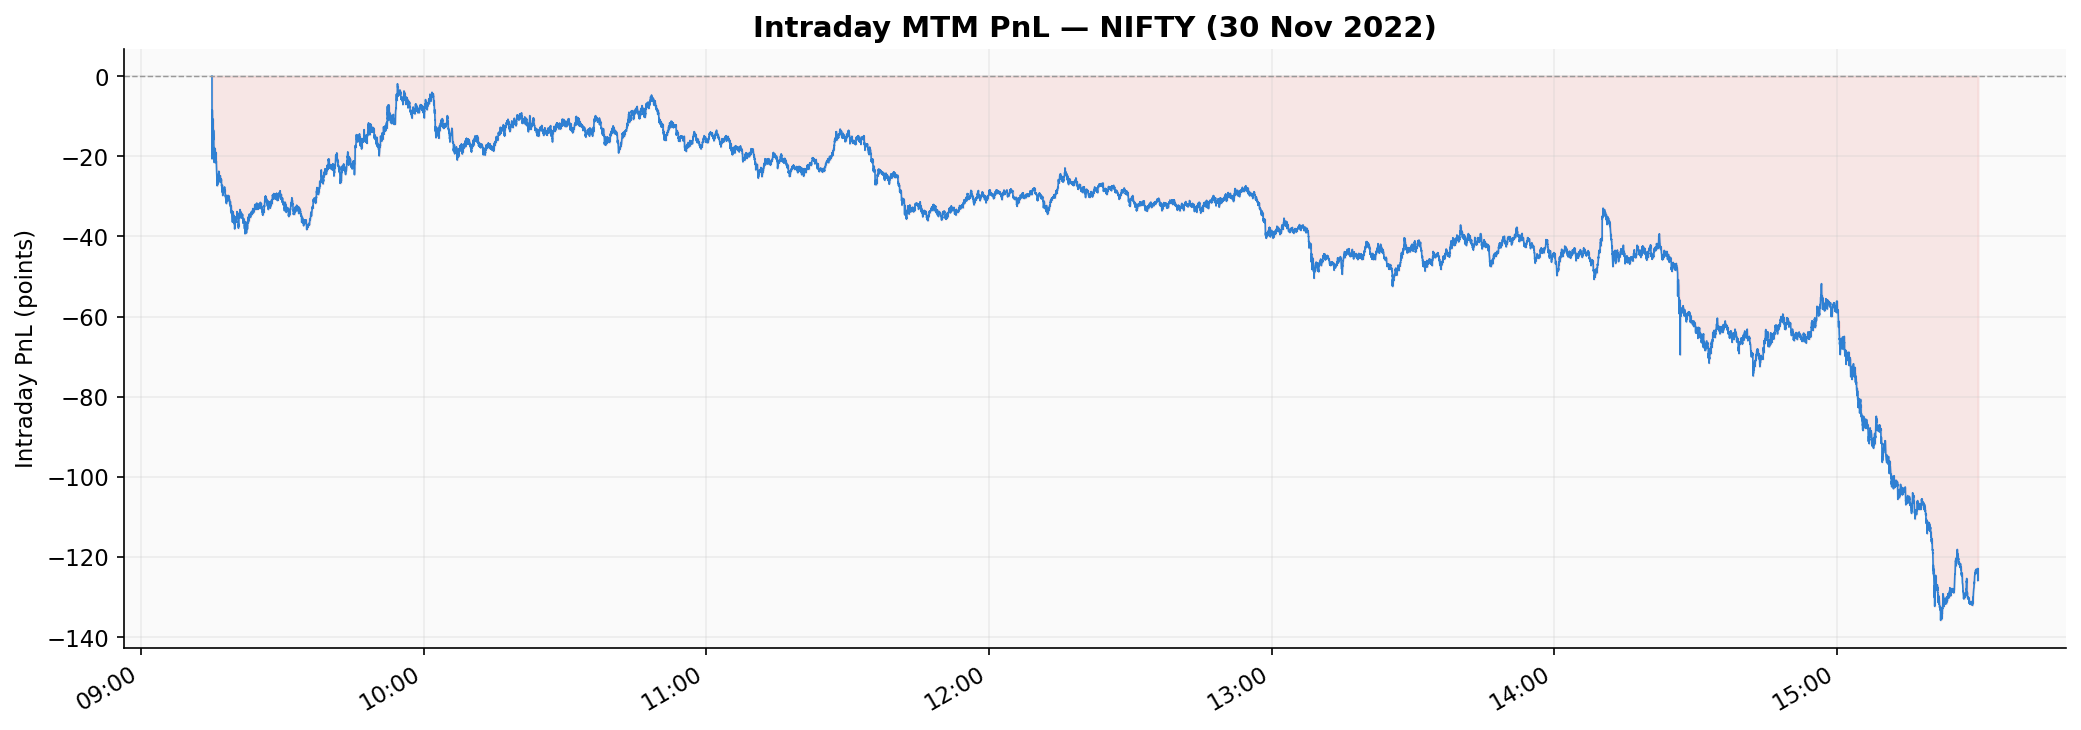
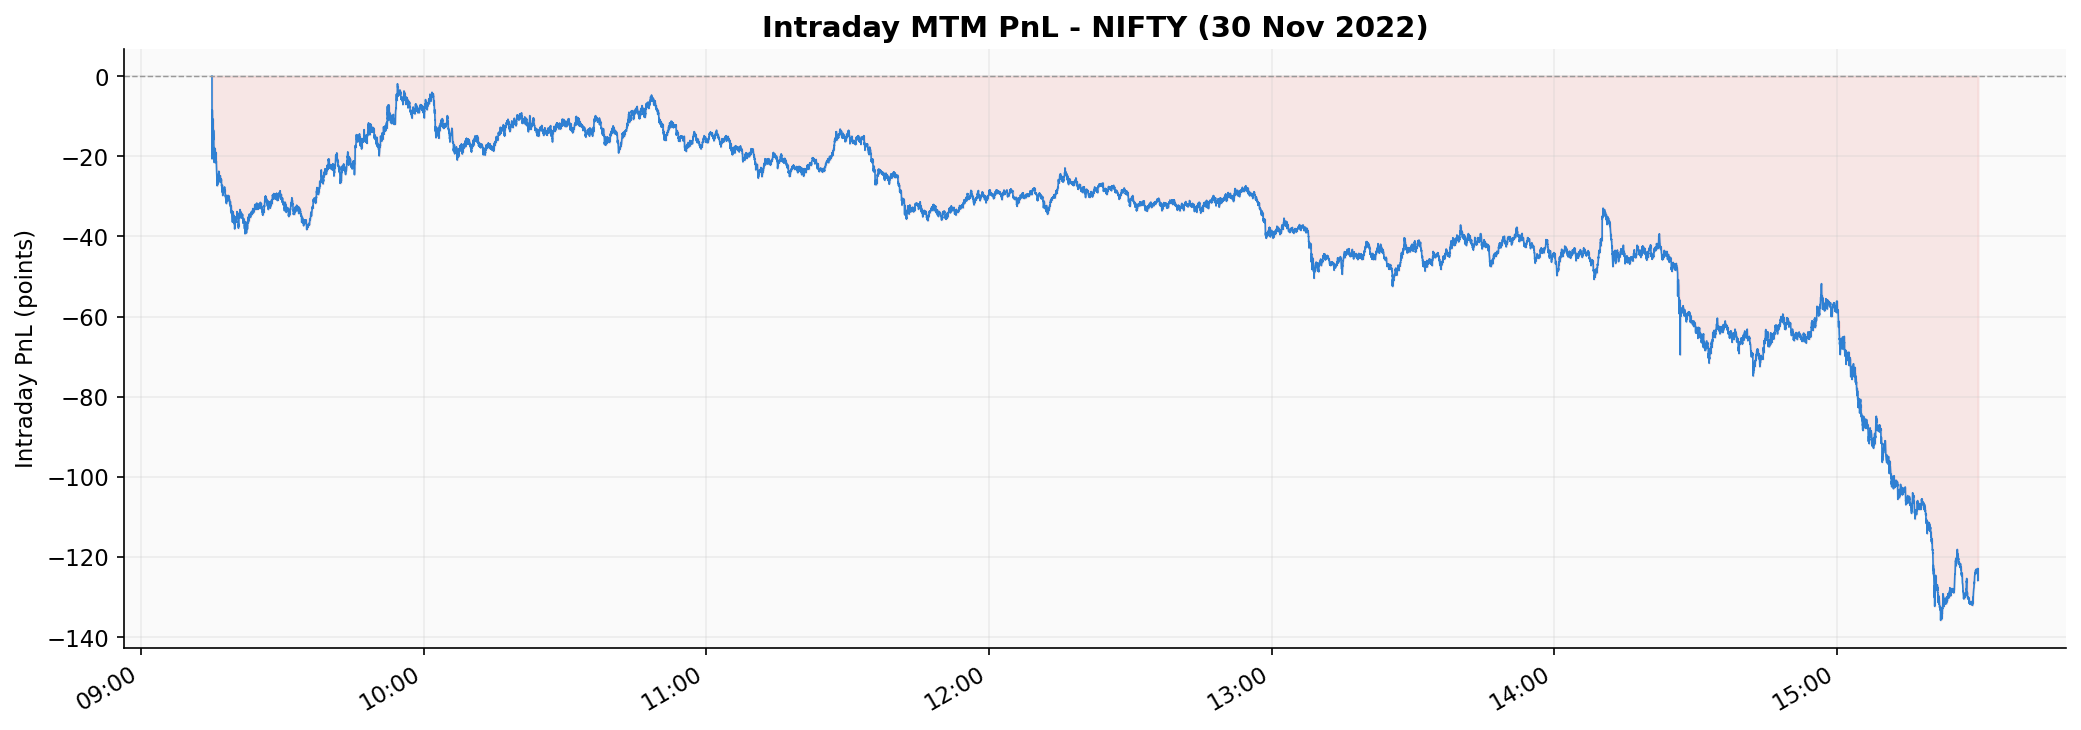
Restructured the codebase to add src package

Changed region(s): [[0.3436, 0.0, 0.6872, 0.0603]]

diff --git a/run.py b/run.py
@@ -1,10 +1,10 @@
 """Entry point for the backtest pipeline."""
 
-from config import DATA_DIR, OUTPUT_DIR, UNDERLIERS
-from strategy import StraddleStrategy
-from backtest import BacktestEngine
-from results import export_results
-from plots import generate_plots
+from src.config import DATA_DIR, OUTPUT_DIR, UNDERLIERS
+from src.strategy import StraddleStrategy
+from src.backtest import BacktestEngine
+from src.results import export_results
+from src.plots import generate_plots
 
 
 def main():

diff --git a/src/plots.py b/src/plots.py
@@ -223,7 +223,7 @@ def _strategy_action(pnl_data, output_dir, data_dir):
     day_df = df[df["date"] == sample_day].copy()
     day_df["strike"] = day_df["positions"].apply(_parse_strike)
 
-    from loader import read_ticks, FUTURES_FOLDER
+    from .loader import read_ticks, FUTURES_FOLDER
     date_str = sample_day.strftime("%Y%m%d")
     fut_file = (
         Path(data_dir) / f"NSE_{date_str}" / FUTURES_FOLDER

diff --git a/src/backtest.py b/src/backtest.py
@@ -8,8 +8,8 @@ and executes the orders that come back.
 """
 
 import numpy as np
-from loader import load_day_data, get_trading_dates, build_price_grid
-from portfolio import Portfolio
+from .loader import load_day_data, get_trading_dates, build_price_grid
+from .portfolio import Portfolio
 
 
 class BacktestEngine:

diff --git a/src/config.py b/src/config.py
@@ -7,7 +7,7 @@ can be moved around without breaking anything.
 
 from pathlib import Path
 
-BASE_DIR = Path(__file__).parent
+BASE_DIR = Path(__file__).parent.parent
 DATA_DIR = BASE_DIR / "data" / "allData"
 OUTPUT_DIR = BASE_DIR / "output"
 

diff --git a/src/__init__.py b/src/__init__.py
@@ -1,0 +1,1 @@
+# Makes src a python package

diff --git a/README.md b/README.md
@@ -18,14 +18,15 @@ The backtest engine is strategy-agnostic. It only passes market data in and exec
 
 ```
 .
-├── config.py        # Paths and underlier list
-├── loader.py        # CSV parsing, expiry detection, price grid construction
-├── strategy.py      # Strategy base class + StraddleStrategy implementation
-├── portfolio.py     # Position tracking, PnL accounting, trade log
-├── backtest.py      # Engine that drives the strategy over the data
-├── results.py       # CSV export and console summary
-├── plots.py         # 8 visualization charts
-├── run.py           # Entry point
+├── src/             # Core logic
+│   ├── config.py    # Paths and underlier list
+│   ├── loader.py    # CSV parsing, price grid construction
+│   ├── strategy.py  # Strategy base class + StraddleStrategy
+│   ├── portfolio.py # Position tracking, trade log
+│   ├── backtest.py  # Backtest engine
+│   ├── results.py   # CSV export and console summary
+│   └── plots.py     # Visualization charts
+├── run.py           # Entry point (runs from root)
 ├── requirements.txt
 ├── data/            # Raw tick data goes here (see data/README.md)
 └── output/          # Generated CSVs and plots land here (see output/README.md)
@@ -47,7 +48,7 @@ The raw tick data is not included in this repo (~2 GB unzipped). See [data/READM
 2. Unzip the archive to get a folder called `allData`.
 3. Place `allData` inside `data/` so the path is `data/allData/NSE_20221101/...`.
 
-The code resolves all paths relative to `config.py`, so nothing is hardcoded.
+The code resolves all paths relative to `src/config.py`, so nothing is hardcoded.
 
 ## Running
 
@@ -80,9 +81,11 @@ For a full description of every output file and plot, see [output/README.md](out
 
 ## Plugging in a new strategy
 
-Subclass `Strategy` from `strategy.py` and implement three methods:
+Subclass `Strategy` from `src.strategy` and implement three methods:
 
 ```python
+from src.strategy import Strategy
+
 class MyStrategy(Strategy):
     def init_day(self, date_str, underlier, expiry):
         pass
@@ -98,6 +101,9 @@ class MyStrategy(Strategy):
 Then swap it into `run.py`:
 
 ```python
+from src.config import DATA_DIR, UNDERLIERS
+from src.backtest import BacktestEngine
+
 strategy = MyStrategy()
 engine = BacktestEngine(strategy, DATA_DIR, UNDERLIERS)
 ```

diff --git a/data/README.md b/data/README.md
@@ -48,7 +48,7 @@ NIFTY  221103  17500  CE  .csv
   underlier
 ```
 
-The code in `loader.py` parses this automatically.
+The code in `src/loader.py` parses this automatically.
 
 ## Futures files
 
